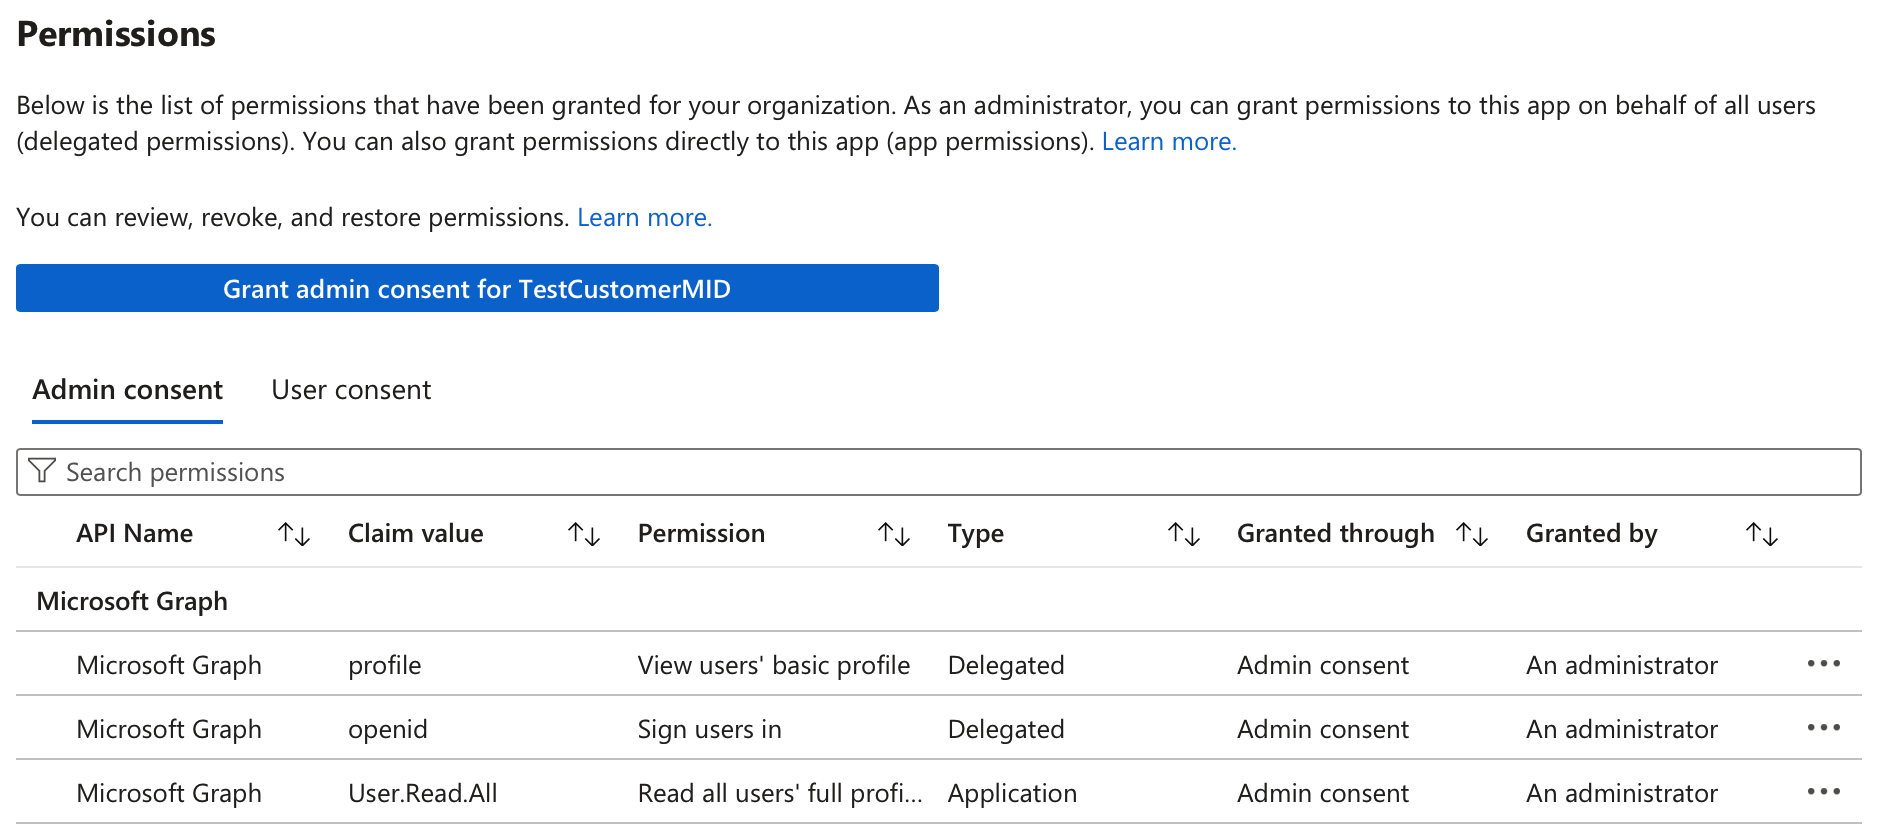
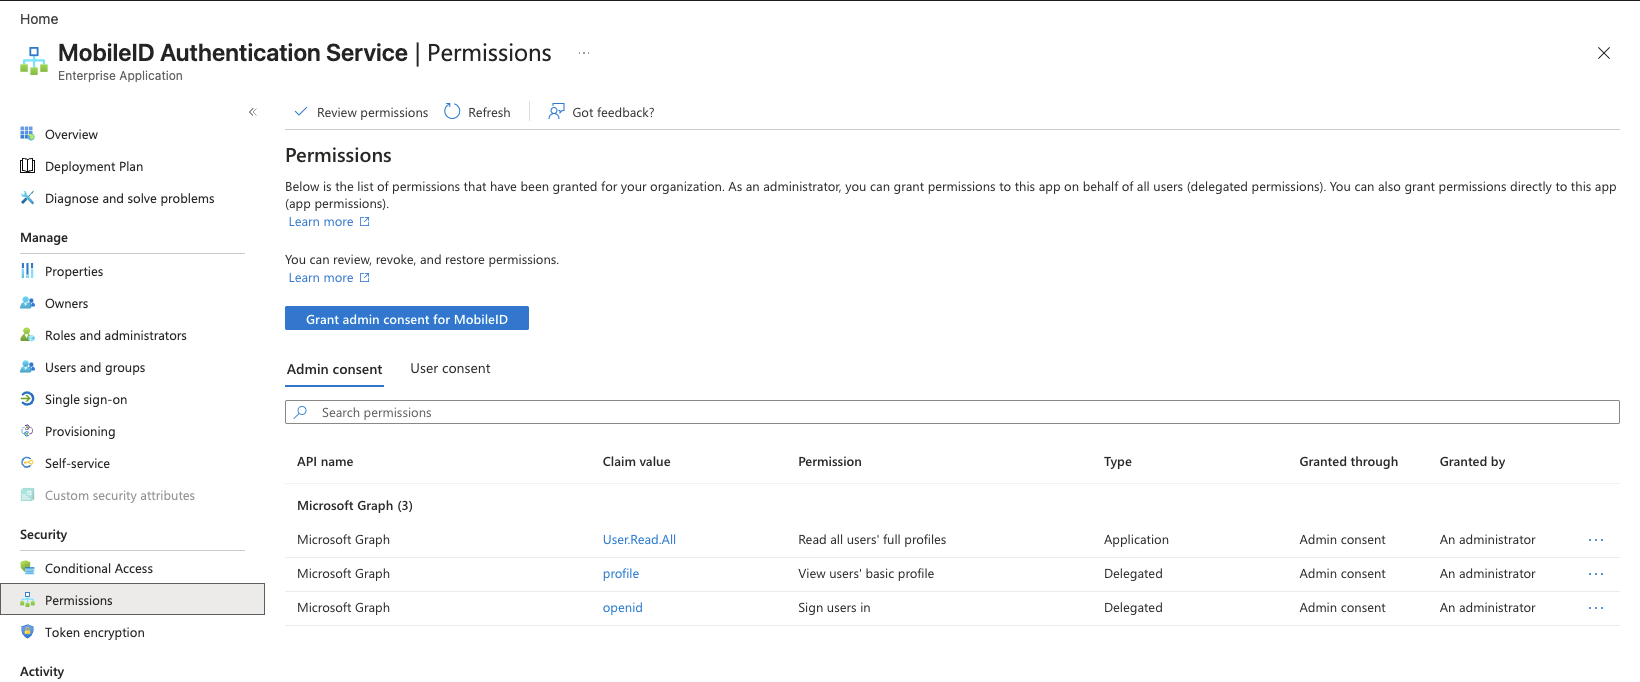
Update Entra external MFA guide and screenshots

diff --git a/docs/oidc-integration-guide/cloud-integration-guide.md b/docs/oidc-integration-guide/cloud-integration-guide.md
@@ -8,9 +8,9 @@ This chapter covers a few Mobile ID integration scenario examples with popular p
 
 Within the broader Mobile ID ecosystem, strong user authentication can be fulfilled with **Mobile ID SIM**, **Mobile ID App**, and **Mobile ID Passkeys**. Microsoft Entra ID does not need to understand or configure these internal methods individually. It consumes the successful result of the Mobile ID provider flow.
 
-In 2020, Microsoft announced plans to replace custom controls with a new method for integrating third-party authentication. MobileID has been working closely with Microsoft to deliver an authentication solution for Microsoft External MFA, previously known as External Authentication Methods (EAM), available from May 2024 and generally available since March 2026.
+In 2020, Microsoft announced plans to replace custom controls with a new method for integrating third-party authentication. MobileID has been working closely with Microsoft to deliver an authentication solution for Microsoft External MFA, previously known as External Authentication Methods (EAM), available in preview from May 2024 and generally available since March 24, 2026.
 
-MobileID via External MFA can satisfy the standard **Require multifactor authentication** grant control in Entra ID Conditional Access and is managed alongside the other authentication methods in Entra ID. It is not identical to every built-in Entra method, however: Microsoft does not currently support External MFA with Authentication Strengths.
+MobileID via External MFA can satisfy the standard **Require multifactor authentication** grant control in Entra ID Conditional Access and is managed alongside the other authentication methods in Entra ID. Users can register it as an Entra sign-in method, but Entra still delegates the actual second-factor journey to Mobile ID. It is not identical to every built-in Entra method, however: Microsoft does not currently support External MFA with Authentication Strengths.
 
 ::: info
 External MFA in Microsoft Entra ID is now generally available. For the current Microsoft guidance, see the [GA announcement](https://techcommunity.microsoft.com/blog/microsoft-entra-blog/external-mfa-in-microsoft-entra-id-is-now-generally-available/4488926), [How to manage external MFA in Microsoft Entra ID](https://learn.microsoft.com/en-us/entra/identity/authentication/how-to-authentication-external-method-manage), and the [Microsoft Entra External MFA method provider reference](https://learn.microsoft.com/en-us/entra/identity/authentication/concept-authentication-external-method-provider). External MFA replaces Custom Controls, which Microsoft plans to deprecate on September 30, 2026.
@@ -34,12 +34,10 @@ This separation is important for documentation and operations:
 
 ### Known Limitations
 
-- Users must specifically select the MobileID External MFA option during authentication. If they have other MFA methods configured besides MobileID, they may need to click "Other options" on the Microsoft "Verify your identity" prompt in order to choose MobileID.
+- If MobileID External MFA is the user's only usable second factor, Entra ID can select it directly. If the user also has other methods and **system-preferred MFA** is enabled, Entra ID usually shows the highest-ranked built-in method first. In that case, the user might need to click "Other options" to choose Mobile ID.
 - Microsoft Entra ID does not expose Mobile ID-specific method selection. Whether Mobile ID uses SIM, App, or Passkey inside the provider journey depends on the user's activated methods and the Mobile ID provider-side configuration for that Entra integration.
-- Cross-tenant user authentication with MobileID External MFA has limitations. It will only work if:
-  - The external Microsoft Entra organization trusts MFA claims from the user's home tenant.
-  - The user has already established a valid MFA claim by authenticating to an application within their home tenant before accessing the cross-tenant application.
-- Azure Government does not yet support Entra ID External MFA. Be sure to review Microsoft Entra feature availability for Azure Government. The "Microsoft Entra ID: External Authentication Methods" application is not accessible under MobileID Federal plans.
+- Cross-tenant and guest scenarios require separate validation. Review Entra cross-tenant access settings for MFA claim trust and align the Mobile ID provider-side onboarding before rollout.
+- For sovereign clouds such as Azure for US Government, confirm cloud-specific onboarding and application IDs before rollout. Microsoft documents separate cloud endpoints and app registrations for Global Azure and Azure for US Government, so commercial-tenant settings do not automatically carry over.
 
 ### Prerequisites
 
@@ -55,7 +53,7 @@ If you did not receive this information, it means that your onboarding process i
 :::
 
 - An active [Entra ID P1 or P2](https://azure.microsoft.com/en-us/pricing/details/active-directory/) subscription with Conditional Access enabled, and P1/P2 licenses assigned to each user who will log in using MobileID MFA. Plans like Microsoft 365 E3, E5, and F3, as well as Enterprise Mobility + Security E3 and E5, and Microsoft Business Premium, all include Entra ID Premium.
-- A designated Entra ID admin account. Configuring the external MFA method and Conditional Access policies requires at least the **Authentication Policy Administrator** role. Granting admin consent for the MobileID application (Step 8 below) requires at least the **Privileged Role Administrator** role. A Global Administrator can perform both steps, but is not the minimum required role for either. You can reduce the account's role privileges after setup is complete.
+- A designated Entra ID admin account. Configuring the external MFA method requires at least the **Authentication Policy Administrator** role. Creating the Conditional Access policy requires at least the **Conditional Access Administrator** role. Granting admin consent for the MobileID application (Step 5 below) requires at least the **Privileged Role Administrator** role. A Global Administrator can perform all steps, but is not the minimum required role for each task. You can reduce the account's role privileges after setup is complete.
 
 ### Configure Entra ID
 
@@ -63,59 +61,81 @@ Follow these steps to configure MobileID as an External MFA method in Microsoft 
 
 | Step | Description |
 |------|-------------|
-| 1 | **Log in to Entra ID** <br><br> Go to the [Microsoft Entra admin center](https://entra.microsoft.com) and log in to your Entra ID tenant as at least an Authentication Policy Administrator. For Step 8 (admin consent), you will need at least the Privileged Role Administrator role. <br><br> If you're using the [Azure portal](https://portal.azure.com), the navigation will differ slightly. |
-| 2 | **Navigate to Authentication Methods** <br><br> In the Entra Admin Center, go to **Entra ID → Authentication methods → Add external MFA**. <br><br> If you're logged into the Azure portal instead, first select Microsoft Entra ID, then go to **Security → Authentication Methods**. |
+| 1 | **Log in to Entra ID** <br><br> Go to the [Microsoft Entra admin center](https://entra.microsoft.com) and log in to your Entra ID tenant as at least an Authentication Policy Administrator. For Step 5 (admin consent), you will need at least the Privileged Role Administrator role. <br><br> If you're using the [Azure portal](https://portal.azure.com), the navigation will differ slightly. |
+| 2 | **Navigate to Authentication Methods** <br><br> In the Entra Admin Center, go to **Entra ID → Authentication methods**. External MFA is added from the Authentication methods policy view. <br><br> If you're logged into the Azure portal instead, first select Microsoft Entra ID, then go to **Security → Authentication Methods**. |
 | 3 | **Add External MFA** <br><br> Click **+ Add External MFA**. <br><br> ![entraid-add-external-method](/img/entraid-add-external-method.png) |
-| 4 | **Configure the External MFA Method** <br><br> On the "Add external MFA" page, enter a descriptive name for the MobileID method. The default name might be "Mobile ID" but you can choose a name that will make sense to your users since they'll see this during authentication. <br><br> **Note:** You cannot change the name after creation. <br><br> Enter the information you have received from Swisscom in the corresponding field: **Client ID**, **Discovery Endpoint**, **App ID**. <br><br> ![entraid-configure-external-method](/img/entraid-configure-external-method.png) |
-| 5 | **Enable the Method** <br><br> If you want to enable MobileID MFA right away, toggle Enable from "Off" to "On". |
-| 6 | **Specify Users** <br><br> Before saving the new MobileID external method, decide which users should have access to it. <br><br> By default, it will apply to all users, meaning any Entra ID user with a Conditional Access Policy requiring multifactor authentication (MFA) will see MobileID as an option. <br><br> To apply it to specific users, click **+ Add Target** under the "Include" tab and choose **Select Targets**. On the "Add directory members" page, select one or more Entra ID directory groups that contain the users you want to target for MobileID authentication, then click **Select**. |
-| 7 | **Save the Configuration** <br><br> After entering all the required details, click **Save** to create the new MobileID external method. |
-| 8 | **Grant Admin Consent** <br><br> If the "Request admin consent" information shows a **Request permission** button instead of saying "Admin consent granted", click the Request permission button to authorize the MobileID Authentication Method application, making sure to check the box next to **Consent on behalf of your organization** before clicking **Accept**. <br><br> <img src="/img/entraid-grant-admin-consent.png" alt="entraid-grant-admin-consent" width="350"> <br><br> You can verify the permissions if you go to **Identity → Applications → Enterprise applications** and select the MobileID Application, then select **Permissions**. The list of permissions that have been granted for your organization should be shown and it should look similar to this example below: <br><br> ![entraid-admin-consent-permissions](/img/entraid-admin-consent-permissions.png) |
+| 4 | **Configure the External MFA Method** <br><br> On the "Add external MFA" page, enter a descriptive name for the MobileID method. The default name might be "Mobile ID" but you can choose a name that will make sense to your users since they'll see this during authentication. <br><br> **Note:** The name must be unique among all external MFA methods in your Entra tenant, and you cannot change it after creation. <br><br> Enter the information you have received from Swisscom in the corresponding field: **Client ID**, **Discovery Endpoint**, **App ID**. <br><br> ![entraid-configure-external-method](/img/entraid-configure-external-method.png) |
+| 5 | **Grant Admin Consent** <br><br> If the "Request admin consent" section shows a **Request permission** button instead of saying "Admin consent granted", click **Request permission** to authorize the MobileID external MFA application. If Microsoft first asks you to choose an account, select the administrator account that will grant consent. Then review the requested permission and click **Accept**. <br><br> ![entraid-grant-admin-consent](/img/entraid-grant-admin-consent.png) <br><br> You need at least the **Privileged Role Administrator** role for this step. If you cannot grant consent yet, you can still save the method in a disabled state and return later; Microsoft does not allow the method to be enabled until consent is granted. <br><br> You can verify the permissions under **Identity → Applications → Enterprise applications** by selecting the MobileID application and opening **Permissions**. <br><br> ![entraid-admin-consent-permissions](/img/entraid-admin-consent-permissions.png) |
+| 6 | **Specify Users** <br><br> Before saving the new MobileID external method, decide which users should have access to it. <br><br> By default, it will apply to all users, meaning any Entra ID user with a Conditional Access policy requiring multifactor authentication (MFA) will see MobileID as an option. <br><br> To apply it to specific users, click **+ Add Target** under the "Include" tab and choose **Select Targets**. On the "Add directory members" page, select one or more Entra ID directory groups that contain the users you want to target for MobileID authentication, then click **Select**. |
+| 7 | **Enable the Method** <br><br> If admin consent is already granted and you want to enable MobileID MFA right away, toggle Enable from "Off" to "On". If consent is still pending, leave the method disabled for now. |
+| 8 | **Save the Configuration** <br><br> After entering all the required details, click **Save** to create the new MobileID external method. |
 
 ### Create and Apply a Conditional Access Policy
 
 | Step | Description |
 |------|-------------|
-| 1 | **Log in to Entra ID** <br><br> Go to the [Microsoft Entra admin center](https://entra.microsoft.com) and log in to your Entra ID tenant as at least an Authentication Policy Administrator. <br><br> If you're using the [Azure portal](https://portal.azure.com), the navigation will differ slightly. |
+| 1 | **Log in to Entra ID** <br><br> Go to the [Microsoft Entra admin center](https://entra.microsoft.com) and log in to your Entra ID tenant as at least a Conditional Access Administrator. <br><br> If you're using the [Azure portal](https://portal.azure.com), the navigation will differ slightly. |
 | 2 | **Navigate to Conditional Access** <br><br> Click on **Conditional Access** in the left-hand menu, then click **+ Create New Policy**. <br><br> If you are in the Azure portal, navigate to **Security → Conditional Access → Policies**. <br><br> ![entraid-conditional-access](/img/entraid-conditional-access.png) |
-| 3 | **Name the Policy** <br><br> Enter a descriptive name for the new policy, such as "MobileID MFA for Acme Users". |
+| 3 | **Name the Policy** <br><br> Enter a descriptive name for the new policy, such as "MobileID MFA for Acme Users". <br><br> ![entraid-conditional-access-new](/img/entraid-conditional-access-new.png) |
 | 4 | **Assign the Policy** <br><br> You can assign this policy to specific users or groups, Entra ID cloud apps, or other conditions like client platforms or networks. <br><br> *Example for assigning to users:* Click **Users** under "Assignments", then select **Users and groups** on the "Include" tab. Choose **Users and groups** and click **0 users and groups selected** to locate the users or Entra ID security groups for whom you want to enforce MobileID MFA. Select the users or groups, then click **Select** to apply your choices. <br><br> If you targeted specific groups when creating the MobileID external method, ensure that you apply this new policy to the same groups. <br><br> *Example for assigning to resources:* Click **Target resources**. On the "Include" tab, select **Apps**, and choose the Entra ID applications where you want MobileID MFA to be applied. |
-| 5 | **Configure Access Controls** <br><br> Click **Grant** under "Access controls", select **Grant access**, and check the box for **Require multifactor authentication**. Click **Select** when done. <br><br> ![entraid-access-controls](/img/entraid-access-controls.png) |
+| 5 | **Configure Access Controls** <br><br> Click **Grant** under "Access controls", select **Grant access**, and check the box for **Require multifactor authentication**. Click **Select** when done. |
 | 6 | **Enable the Policy** <br><br> The final step is to enable the new MobileID conditional access policy. Click the "On" toggle switch under "Enable policy", then click **Create**. The policy will be created and applied to your selected groups or users, enforcing MFA via MobileID. |
 
 ::: warning
 Avoid assigning the MobileID policy to all users or all cloud apps at the start, especially for tenant administrators, to prevent potential admin lockouts. Always test the policy with selected users first. Additionally, ensure you create a fail-safe Entra ID administrator account that is excluded from MobileID MFA policies to maintain uninterrupted access. Secure this account with a strong password and a different access condition, such as one based on a trusted network.
 :::
 
-### Additional Configuration to Prioritize MobileID MFA
+::: warning
+If you are migrating from Entra Custom Controls, do not target the same users with both a Custom Control policy and an External MFA policy. Microsoft documents that affected users will have to satisfy both controls, which leads to a double redirect to the external provider.
+:::
 
-If you want users to exclusively use MobileID instead of the Microsoft Authenticator app, follow these steps:
+### Register Users for External MFA
+
+External MFA is also a user sign-in method in Entra ID. Before broad rollout, decide how users will register it. Microsoft can surface registration in two valid ways: users can open **+ Add sign-in method** in **Security info**, or Entra can launch the registration wizard during the first protected sign-in. The screenshot below shows the stable post-registration state after Mobile ID was already added successfully:
+
+![entraid-security-info](/img/entraid-security-info.png)
+
+- **Self-service in Security info:** Users go to [Security info](https://mysignins.microsoft.com/security-info), select **+ Add sign-in method**, choose **External Auth methods**, and complete the Mobile ID challenge. After registration, the method appears in the list as **Mobile ID (external mfa)**.
+- **Registration during sign-in:** If a targeted user signs in and still needs registration, Entra can launch the registration wizard. If other methods are enabled, the user might need to choose **I want to set up a different method** → **External Auth methods**.
+- **Admin-assisted registration:** In the Entra admin center, go to **Users → All users → {user} → Authentication Methods → + Add Authentication Method → External authentication method**.
+
+Depending on the user's targeting and currently available methods, the Security info page can show different choices. The **External Auth methods** option only appears after the MobileID External MFA method is enabled and the user is included in its target scope.
+
+If you want the first protected sign-in to be as smooth as possible, pre-register your pilot users before you begin testing.
+
+### Optional: Reduce Competing Entra Methods
+
+If MobileID External MFA is the user's only usable second factor, Entra ID can select it directly. If users also have other methods and system-preferred MFA remains enabled, Entra ID usually offers another method first. Use the following options if you want MobileID to be the default experience for a pilot or dedicated user group:
 
 | Step | Description |
 |------|-------------|
-| 1 | **Disable the Microsoft Authenticator Registration Campaign** <br><br> In the Entra ID admin center, go to **Protection → Authentication Methods → Registration Campaign**. <br><br> Click **Edit**, change the State to **Disabled**, and click **Save**. <br><br> Alternatively, you can leave the registration campaign enabled and exclude the groups of users who are covered by the MobileID conditional access policy. |
-| 2 | **Disable System Preferred MFA for Microsoft Authenticator** <br><br> Go to **Protection → Authentication Methods → Settings → System Preferred Multifactor Authentication**. <br><br> Click **Edit**, change the State to **Disabled**, and click **Save**. |
-| 3 | **Turn Off Microsoft Authenticator** <br><br> Navigate to **Protection → Policies**, click **Microsoft Authenticator**. <br><br> On the "Enable and Target" tab, toggle the Enable switch to **Off** and click **Save**. |
+| 1 | **Disable the Microsoft Authenticator Registration Campaign** <br><br> In the Entra ID admin center, go to **Entra ID → Authentication methods → Registration campaign**. <br><br> Click **Edit**, change the State to **Disabled**, and click **Save**. <br><br> Alternatively, leave the registration campaign enabled and exclude the groups of users who are covered by the MobileID Conditional Access policy. |
+| 2 | **Review System-Preferred MFA** <br><br> Go to **Entra ID → Authentication methods → Settings → System preferred multifactor authentication**. <br><br> If you want Entra to stop preferring Microsoft-native methods for this user population, click **Edit**, change the State to **Disabled**, and click **Save**. |
+| 3 | **Limit or Turn Off Microsoft Authenticator** <br><br> Go to **Entra ID → Authentication methods → Policies → Microsoft Authenticator**. <br><br> On the **Enable and Target** tab, either narrow the targeted users/groups or toggle the method to **Off** for a dedicated MobileID rollout. If your users still depend on Microsoft Authenticator or Microsoft Entra self-service password reset, adjust the scope instead of disabling it tenant-wide. |
+
+::: tip
+If **Manage migration** still shows **Pre-migration** or **Migration in Progress**, the Authentication methods policy is not your only control plane yet. Legacy MFA and SSPR settings can still expose Microsoft-native methods during registration and sign-in, even if you already narrowed the modern Authentication methods policy. For a clean MobileID pilot, review all active policy layers together and remove competing methods where appropriate.
+:::
+
+::: tip
+When your tenant reaches **Migration Complete**, legacy MFA and SSPR method controls no longer apply. One exception remains: **security questions** are still managed in the legacy SSPR policy, so keep that in mind if your reset journey depends on them.
+:::
 
 ### Test Your Setup
 
-Log in to Entra ID using a user account that has been assigned the Conditional Access policy requiring MFA and is a target for the newly created MobileID external method.
+Log in to Entra ID using a user account that has been assigned the Conditional Access policy requiring MFA and is in scope for the newly created MobileID external method. For the cleanest test, pre-register the method in Security info first.
 
-If you applied the MobileID Conditional Access policy to "All cloud apps", when you log into the Office portal (e.g., [https://office.com](https://office.com)) and submit your primary Entra ID credentials, you'll see your MobileID External MFA method as an option for identity verification. The name displayed will be the one you entered when setting up the MobileID External MFA method in Entra ID.
+If you applied the MobileID Conditional Access policy to "All cloud apps", when you log into the Office portal (e.g., [https://office.com](https://office.com)) and submit your primary Entra ID credentials, Entra ID will either show your MobileID External MFA method as an option for identity verification or, if it is the only usable second factor, preselect it automatically. The displayed name will be the one you entered when setting up the MobileID External MFA method in Entra ID.
 
 <img src="/img/entraid-verify-identity.png" alt="entraid-verify-identity" width="500">
 
-Choose the "Mobile ID" method to begin MobileID MFA authentication.
+If Mobile ID is shown directly, choose the "Mobile ID" method to begin MobileID MFA authentication. If Entra preselects it because no other method is available, continue with the prompt that Entra displays.
 
-If you have multiple Entra ID authentication methods enabled, you may need to click "Other options" to view and select the MobileID method.
+If you have multiple Entra ID authentication methods enabled and system-preferred MFA is active, you may need to click "Other options" to view and select the MobileID method. This is especially common if the user also has Microsoft Authenticator, a Temporary Access Pass, or passkeys registered.
 
-<img src="/img/entraid-other-options.png" alt="entraid-other-options" width="500">
-
-You will be redirected to the MobileID provider journey, where MobileID either starts user enrolment or prompts for one of the enabled authentication methods, depending on your configuration.
+On first use, Entra may first send the user through the external method registration wizard before the standard MFA prompt appears. Once the method is available, the user is redirected to the MobileID provider journey, where MobileID either starts user enrolment or prompts for one of the enabled authentication methods, depending on your configuration.
 
 Once you complete the MobileID authentication, you'll return to Entra ID to finish logging in to the application.
-
-<img src="/img/entraid-authentication-complete.png" alt="entraid-authentication-complete" width="500">
 
 If your Conditional Access policy requiring MFA is only applied to specific applications, the initial login to the Office portal will not prompt for MobileID MFA. However, accessing the protected application within the Office portal or directly will trigger the MobileID MFA prompt.
 
